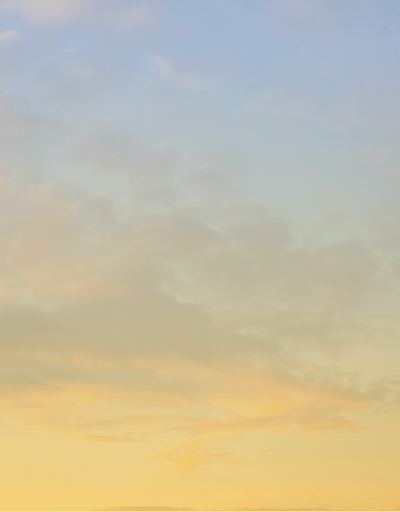
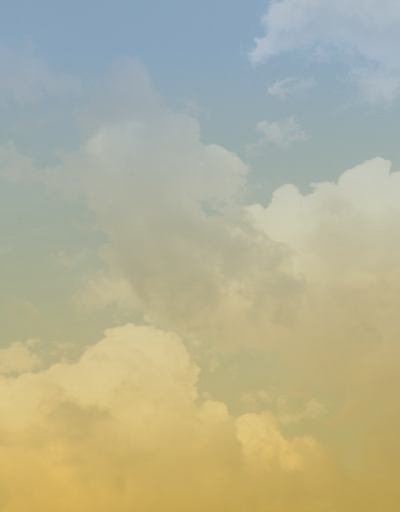
adds different img for poor background

diff --git a/src/client/ResultsSection.js b/src/client/ResultsSection.js
@@ -18,6 +18,7 @@ export default class ResultsSection extends Component {
 				break;
 			case "Good":
 				var className = "goodResult";
+				break;
 			case "Great":
 				var className = "greatResult";
 				break;
@@ -28,12 +29,14 @@ export default class ResultsSection extends Component {
 		if (this.props.sunset) {
 			var className = this.fetchBackground()
 		} else {
-
+			if (this.state.spin) {
+			    var sunClassName = "spin";
+			    var containerClass = "shrink";
+			}
 		}
 		return (
 			<div className={ "section resultsSection " + className }>
 				<div className="innerContent">
-					<img src={ sunFullImage } alt="sun-inner" className="sunImg" />
 				</div>
 			</div>
 		)

diff --git a/src/css/information_section.css b/src/css/information_section.css
@@ -33,7 +33,7 @@
                 background-color: #031D44;
                 border-color: #aaa;
             }
-            &:focus {outline: 0}
+            &:focus { outline: 0 }
         }
         .signupLink {
             margin-left: 25px;
